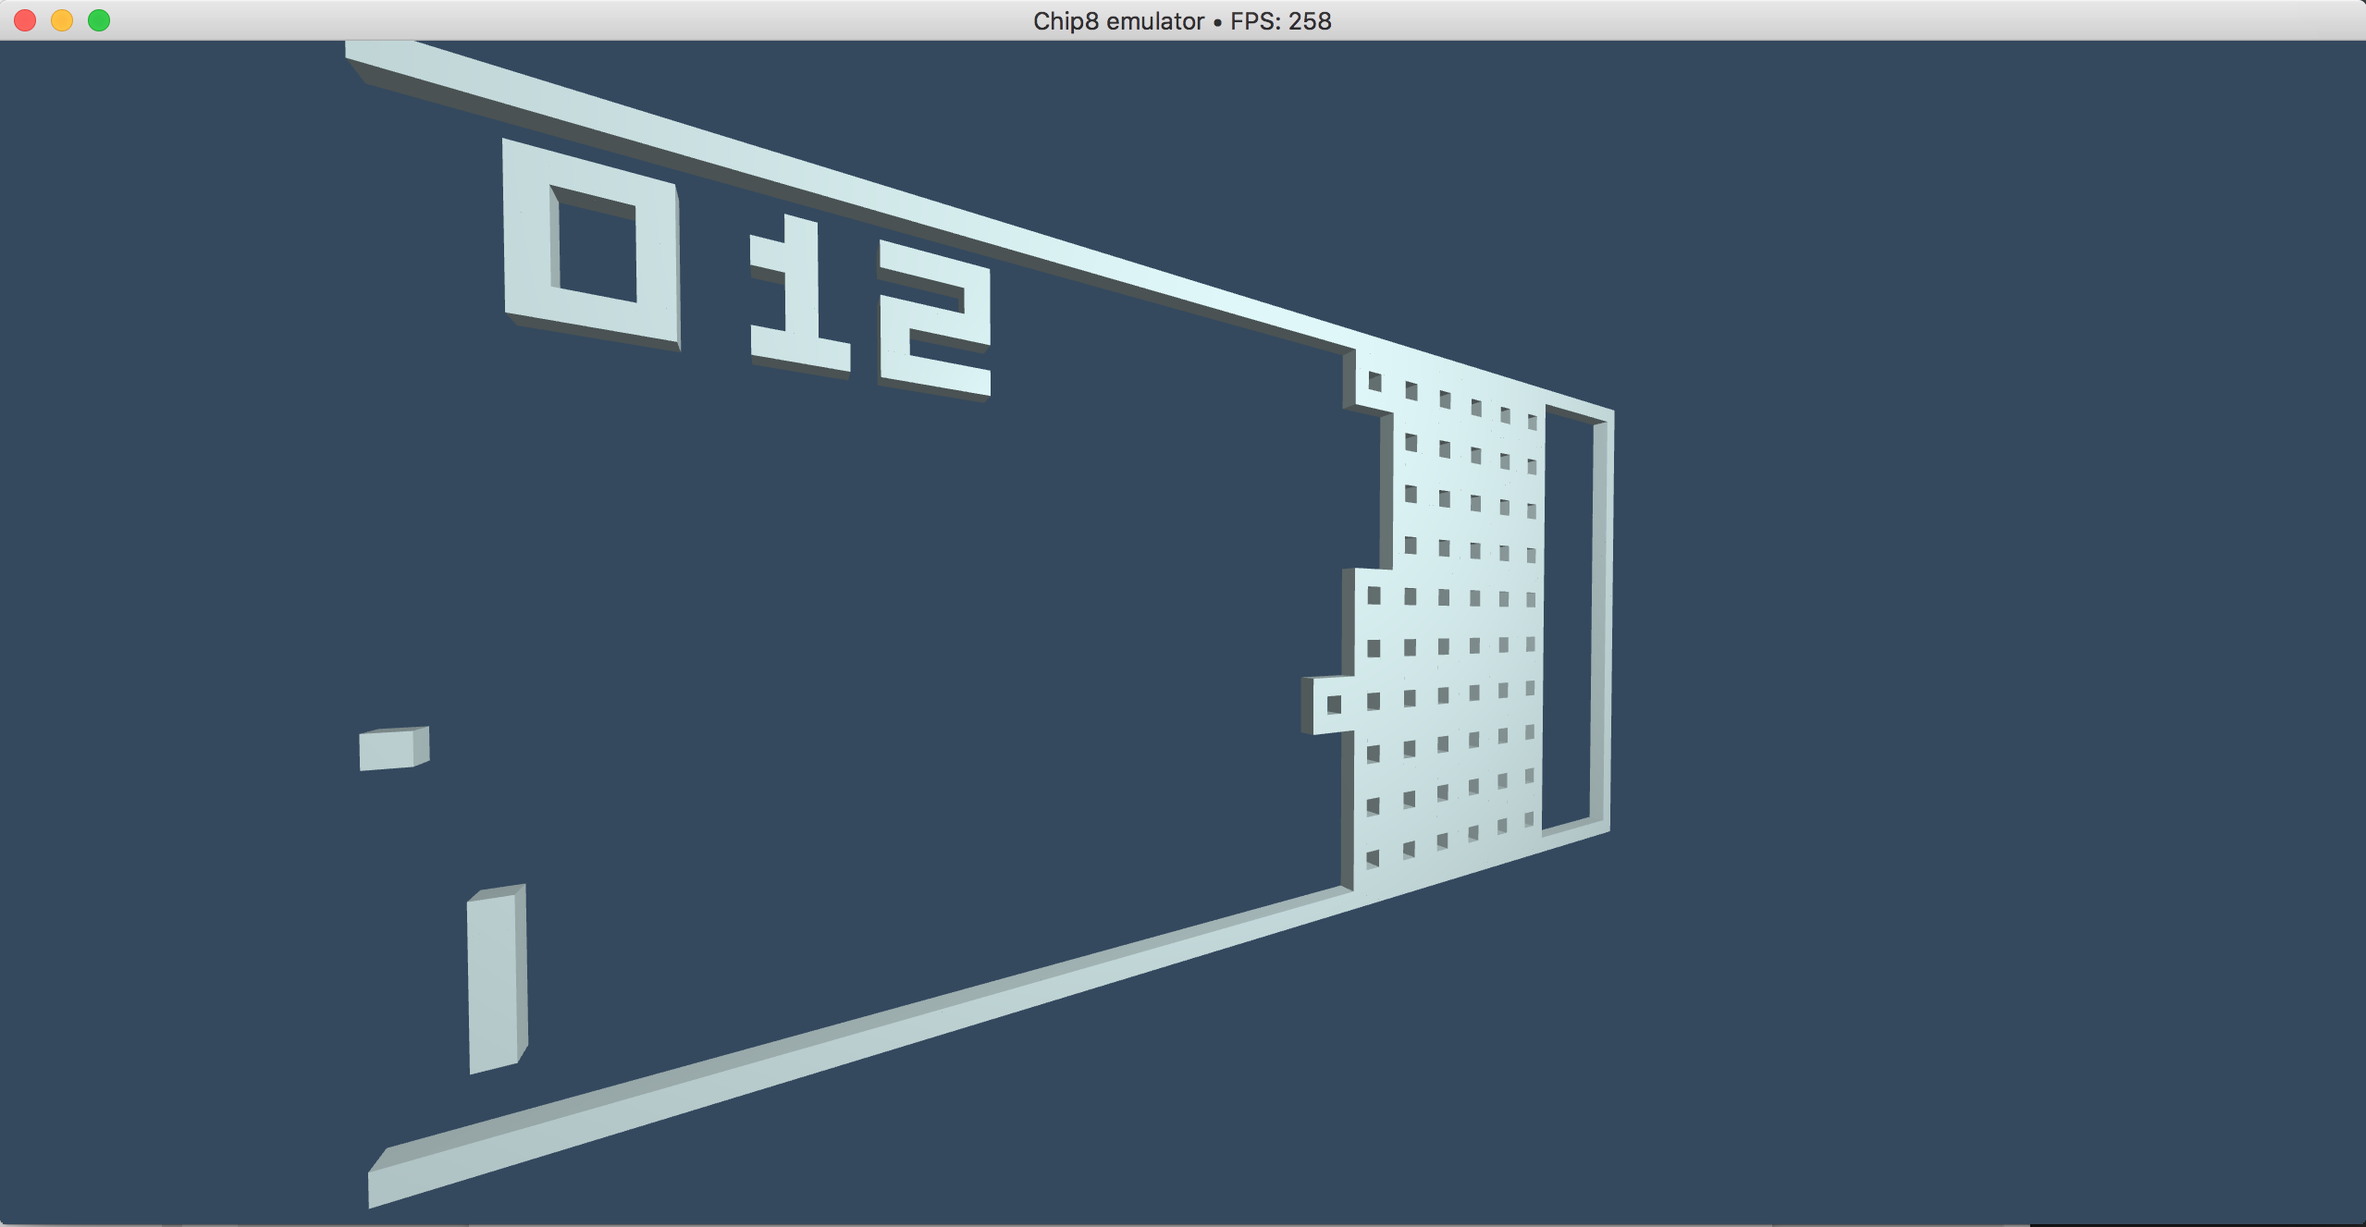
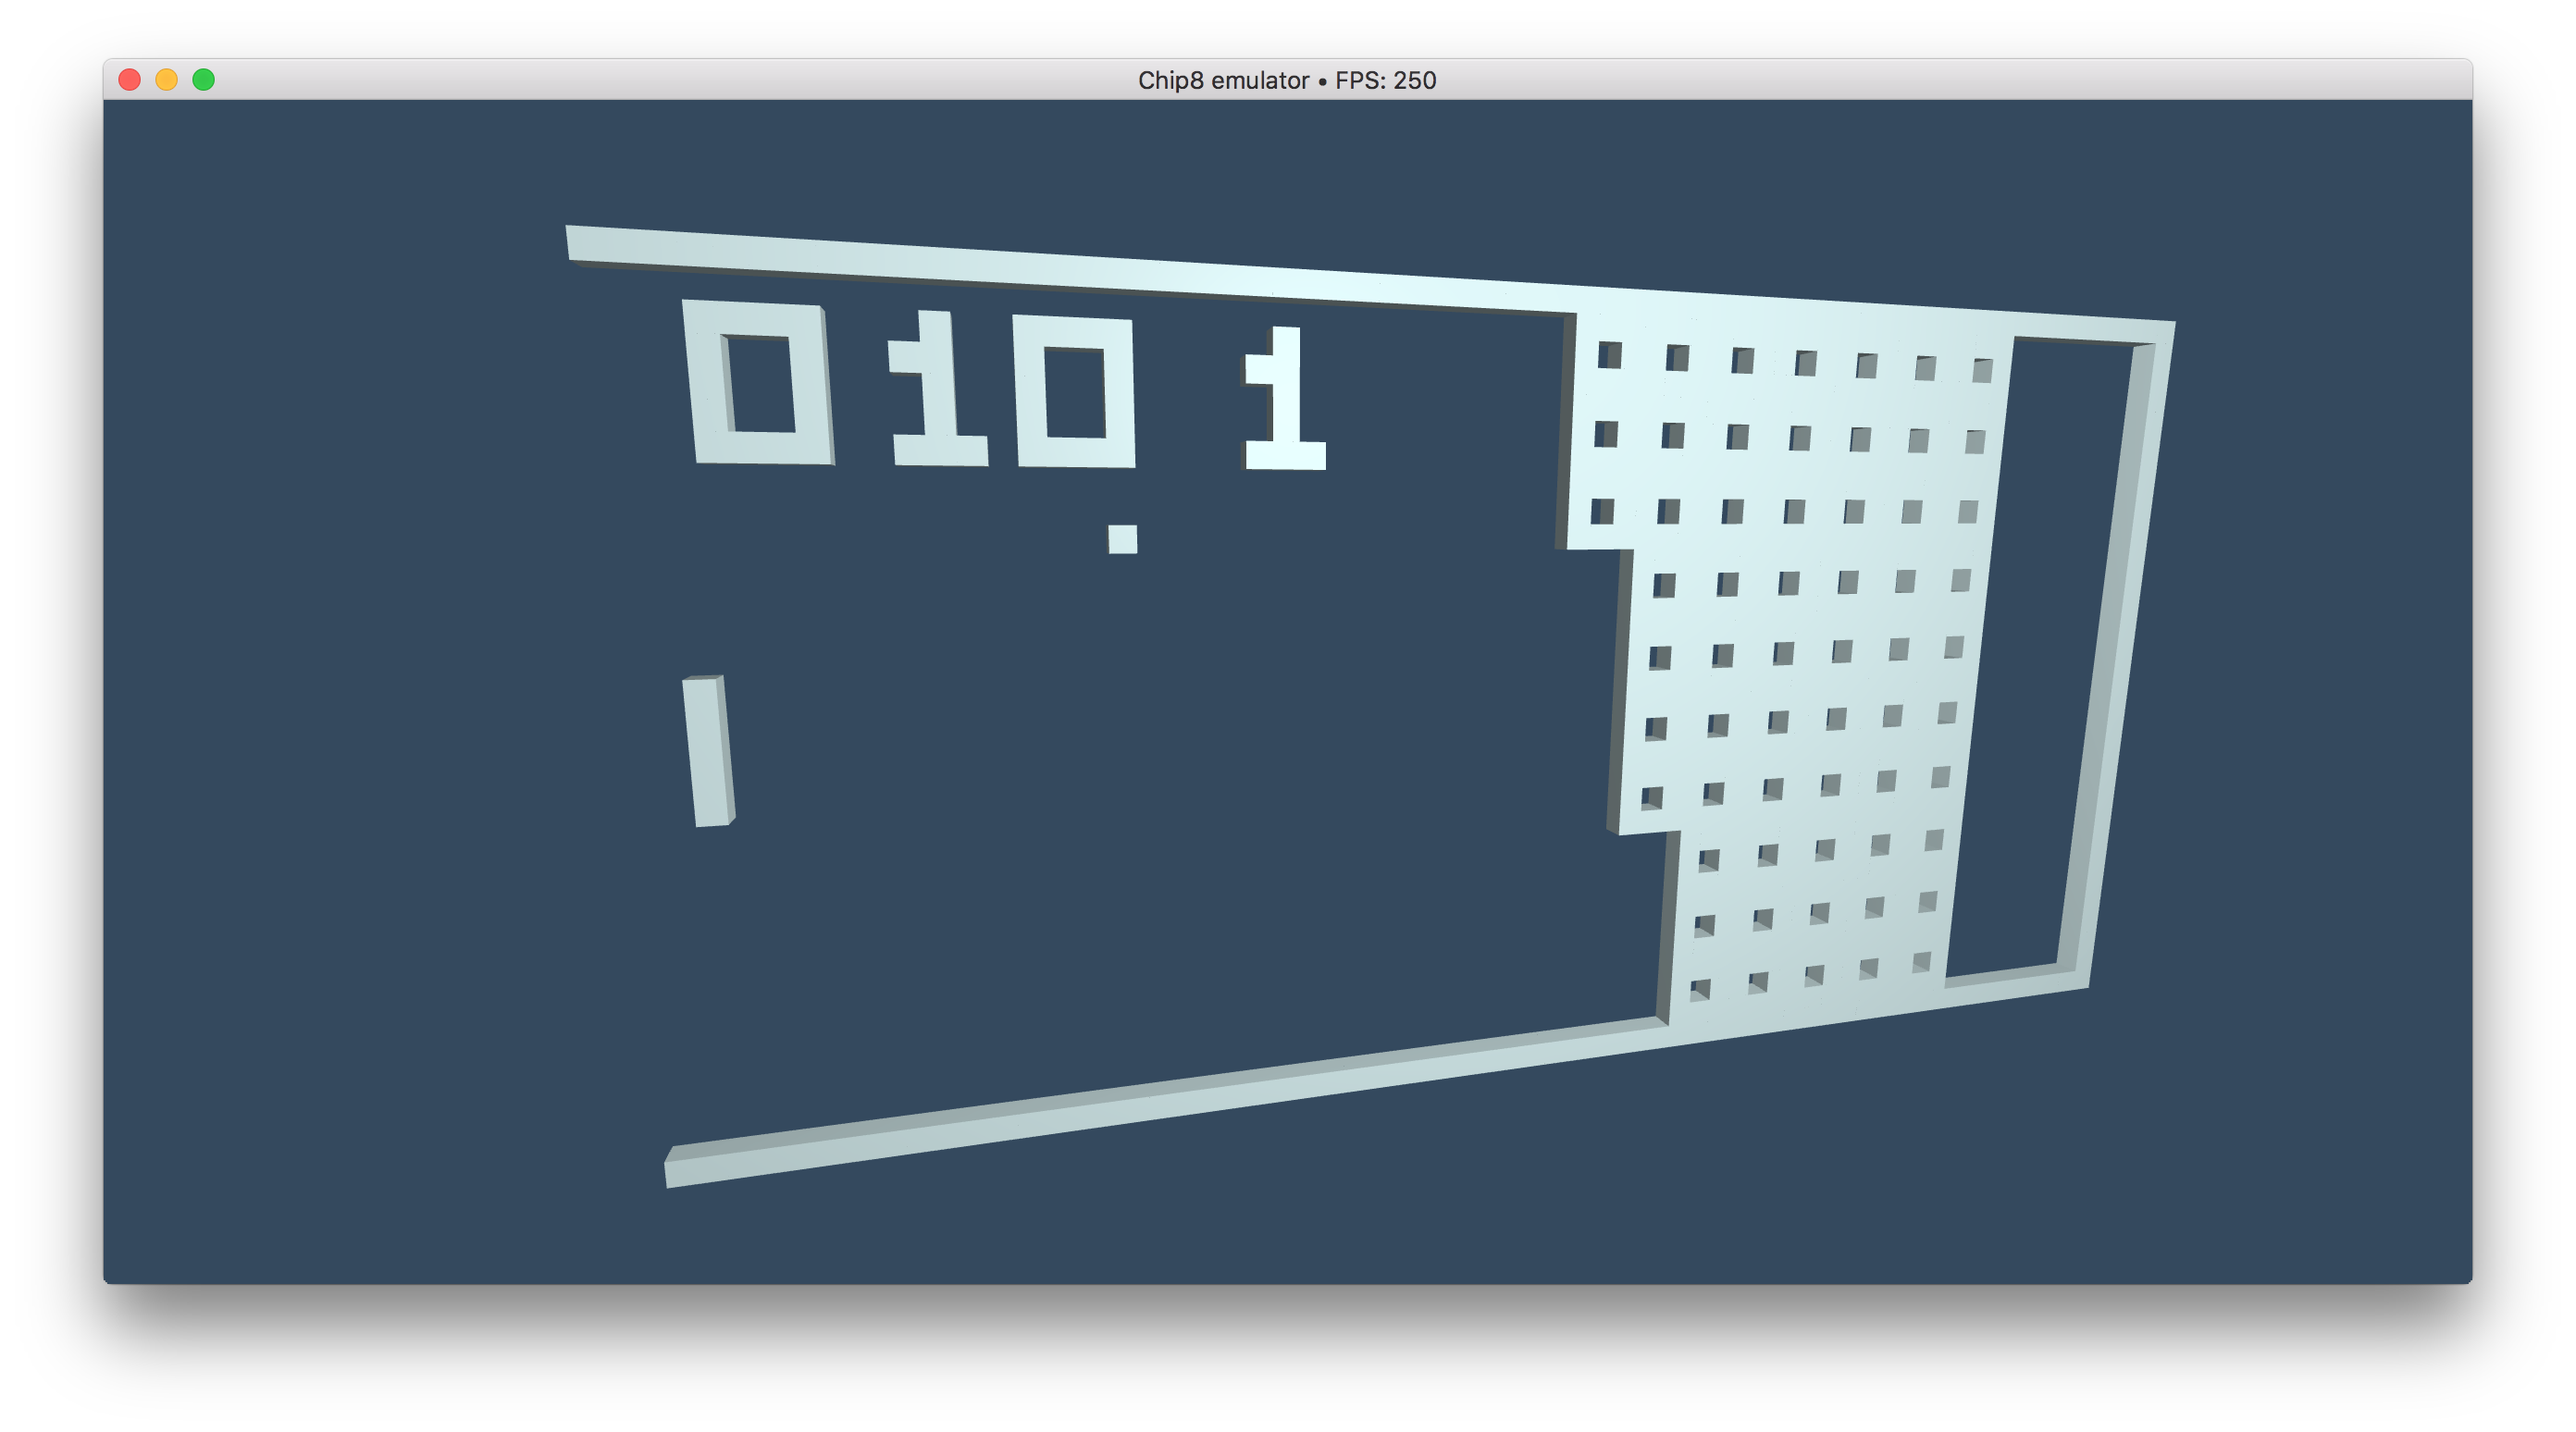
readme

diff --git a/app/main.cpp b/app/main.cpp
@@ -3,9 +3,16 @@
 
 int main(int argc, char **argv)
 {
-    // todo choose Rom from CLI
+    std::string filePath;
+
+    if (argc > 1) {
+        filePath = argv[1];
+    } else {
+        filePath = "roms/UFO";
+    }
+
     Chip8 chip8;
-    chip8.loadRomFromFile("roms/VBRIX");
+    chip8.loadRomFromFile(filePath);
     chip8.run();
 
     return 0;

diff --git a/readme.md b/readme.md
@@ -1,4 +1,45 @@
-## deps
+# 3D Chip8 emulator
 
-- OpenGL
-- OpenAL
+## Motivations
+
+I basically wanted to improve my OpenGL (and C++) skills through a fun project.
+I always wanted to make an emulator, and the Chip8 is a fairly easy one to
+start with. So why not making the rendering 3D to be able to move "inside"
+the game.
+
+![](./screens/chip8-1.png)
+![](./screens/chip8-4.png)
+![](./screens/chip8-2.png)
+![](./screens/chip8-3.png)
+
+Here is a small video of what it looks like:
+[video](https://www.youtube.com/watch?v=h3pDNioWFzI)
+
+You can use the mouse and the WASD keys to move.
+The Chip8 inputs are:
+
+keys | keys  | keys  | keys 
+--- | --- | --- | ---
+4 | 5 | 6 | 7
+R | T | Y | U
+F | G | H | J
+V | B | N | M
+
+## Dependencies
+
+All deps should already be bundled inside the project.
+The only system libs needed are `OpenGL` and `OpenAL`.
+
+## Build
+
+This project is using `cmake` as build system.
+
+Inside the project root:
+
+```bash
+mkdir bin
+cd bin
+cmake -DCMAKE_BUILD_TYPE=Release ..
+make
+./chip8_run /path/to/rom
+```
